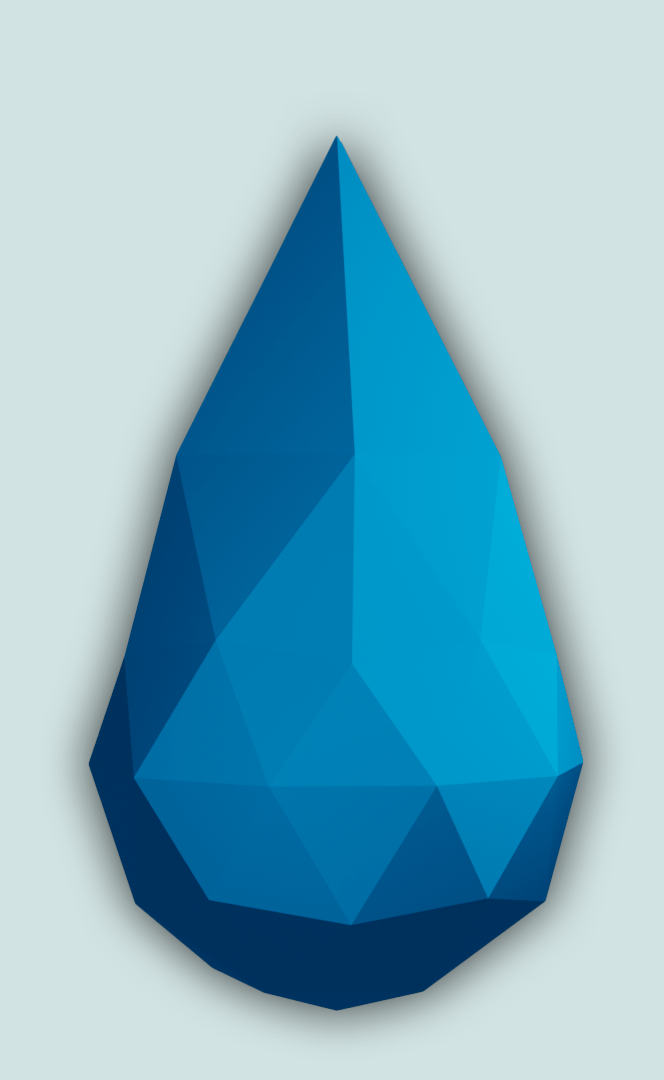
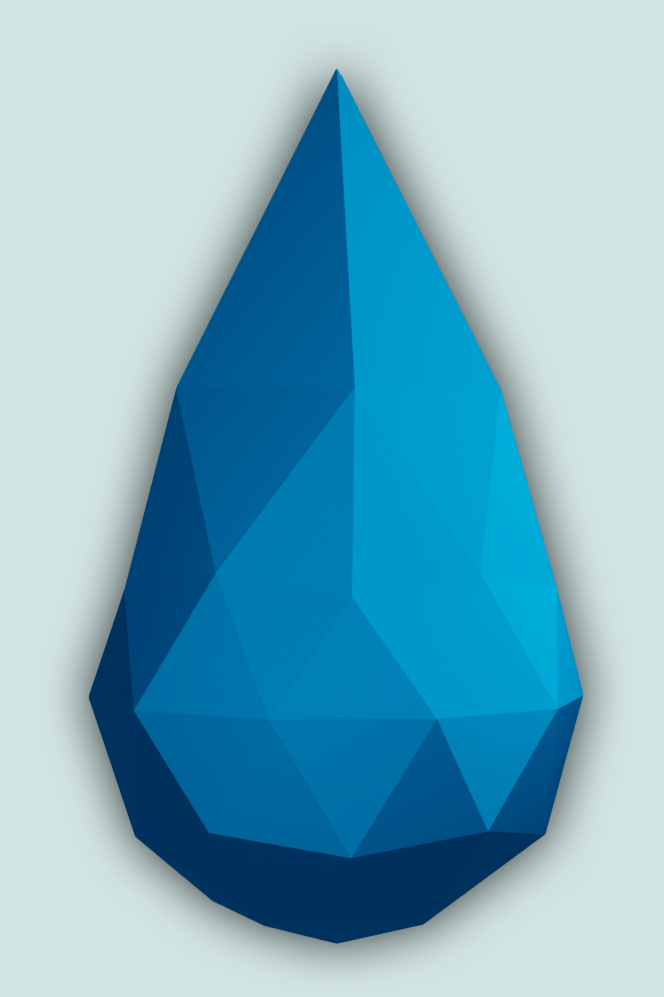
Estilização da primeira página melhorada

diff --git a/src/components/nft/index.tsx b/src/components/nft/index.tsx
@@ -2,22 +2,26 @@ import Image from 'next/image'
 import React from 'react'
 
 import NftImage from '../../assets/images/blue/nft.png'
-import { Container } from './style'
+import ProgressBar from '../progressBar'
+import { Container, ImageContainer, MoneyDonatedNumber } from './style'
 
 interface Props {}
 
 const Nft: React.FC<Props> = props => {
     return (
         <Container>
-            <Image
-                src={NftImage}
-                layout="fixed"
-                width={251}
-                height={408}
-                quality={100}
-            />
-            
+            <ImageContainer>
+                <Image
+                    src={NftImage}
+                    layout="fixed"
+                    width={251}
+                    height={390}
+                    quality={100}
+                />
+            </ImageContainer>
 
+            <MoneyDonatedNumber>$ 10.000.000</MoneyDonatedNumber>
+            {/* <ProgressBar /> */}
         </Container>
     )
 }

diff --git a/src/components/progressBar/style.ts b/src/components/progressBar/style.ts
@@ -1,0 +1,41 @@
+import styled from 'styled-components';
+
+export const Container = styled.div`
+    position: relative;
+
+    span {
+        margin-top: 2rem;
+        display: block;
+        border-radius: 3px;
+        width: 100%;
+
+        position: relative;
+
+        height: 3px;
+        background-color:  #0070A6;
+
+        &:before {
+            content: "";
+            position: absolute;
+            top:0;
+            left: 0;
+            width: 30px;
+            height: 30px;
+            transform: translate(-50%, -50%);
+            border-radius: 50%;
+            background-color: #0070A6;
+        }
+
+        &:after {
+            content: "";
+            position: absolute;
+            top:0;
+            right: 0;
+            width: 30px;
+            height: 30px;
+            transform: translate(50%, -50%);
+            border-radius: 50%;
+            background-color: #0070A6;
+        }
+    }
+`;

diff --git a/src/components/navbar/index.tsx b/src/components/navbar/index.tsx
@@ -1,8 +1,9 @@
 import React from 'react'
 
 import LogoBlue from '../../assets/images/blue/logo.png'
-import { Container, LogoContainer } from './style'
+import { Container, LogoContainer, NavItem } from './style'
 import Image from 'next/image'
+import Link from 'next/link'
 
 interface Props {}
 
@@ -12,6 +13,13 @@ const navbar: React.FC<Props> = props => {
             <LogoContainer>
                 <Image src={LogoBlue} />
             </LogoContainer>
+
+            <NavItem>
+                <Link href="/about">About</Link>
+            </NavItem>
+            <NavItem>
+                <Link href="/contact">Contact</Link>
+            </NavItem>
         </Container>
     )
 }

diff --git a/src/components/navbar/style.ts b/src/components/navbar/style.ts
@@ -1,10 +1,27 @@
-import styled from 'styled-components';
+import styled from 'styled-components'
 
 export const Container = styled.div`
     padding: 1rem 1.5rem;
-`;
-
-export const LogoContainer = styled.div
+    display: flex;
+    align-items: center;
 `
 
-`;
+export const LogoContainer = styled.div`
+    margin-right: auto;
+`
+
+export const NavItem = styled.div`
+    font-size: 1.8rem;
+    padding: 1.8rem 2rem;
+    transition: all .4s;
+    border-radius: 1rem;
+
+    a {
+        text-decoration: none;
+        color: ${props => props.theme.colors.black};
+    }
+
+    &:hover {
+        background-color: white;
+    }
+`

diff --git a/src/components/nft/style.ts b/src/components/nft/style.ts
@@ -1,5 +1,14 @@
 import styled from 'styled-components'
 
 export const Container = styled.div`
-    margin: 0 auto;
+    padding: 0 4rem;
 `
+
+export const ImageContainer = styled.div`
+    display: flex;
+    justify-content: center;
+`
+export const MoneyDonatedNumber = styled.p`
+  font-size: 4rem;
+  text-align: center;
+`;

diff --git a/src/styles/global.ts b/src/styles/global.ts
@@ -13,7 +13,7 @@ export default createGlobalStyle`
     }
 
     body {
-        background: ${props => props.theme.colors.background};
+        background: ${props => props.theme.colors.white};
         font-family: ${props => props.theme.fontFamily};
         position: relative;
         min-height: 100vh;

diff --git a/src/components/progressBar/index.tsx b/src/components/progressBar/index.tsx
@@ -1,0 +1,12 @@
+import React from 'react'
+import { Container } from './style'
+
+interface Props {}
+
+const ProgressBar: React.FC<Props> = props => {
+    return <Container>
+        <span>&nbsp;</span>
+    </Container>
+}
+
+export default ProgressBar

diff --git a/src/styles/pages/index/style.ts b/src/styles/pages/index/style.ts
@@ -19,7 +19,7 @@ export const Container = styled.div`
 `
 
 export const Content = styled.div`
-    padding: 4rem 14rem;
+    padding: 0 14rem;
     display: grid;
     grid-template-columns: 58% 40%;
     grid-gap: 6rem;

diff --git a/src/components/header/style.ts b/src/components/header/style.ts
@@ -5,6 +5,7 @@ export const Container = styled.div`
     flex-direction: column;
     grid-gap: 4rem;
     text-align: center;
+    justify-content: center;
 
     p {
         font-size: 2rem;

diff --git a/src/styles/theme.ts b/src/styles/theme.ts
@@ -1,6 +1,4 @@
 const colors = {
-
-
     greyLight1: '#faf9f9',
     greyLight2: '#f4f2f2',
     greyLight3: '#f0eeee',
